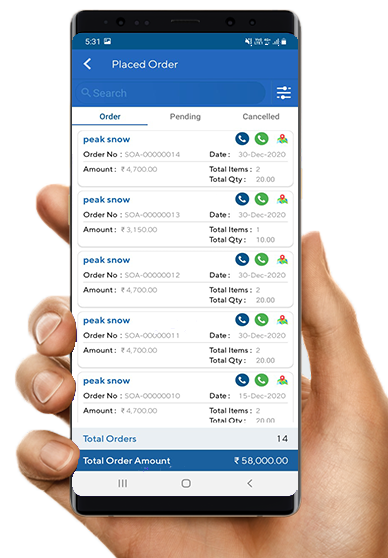
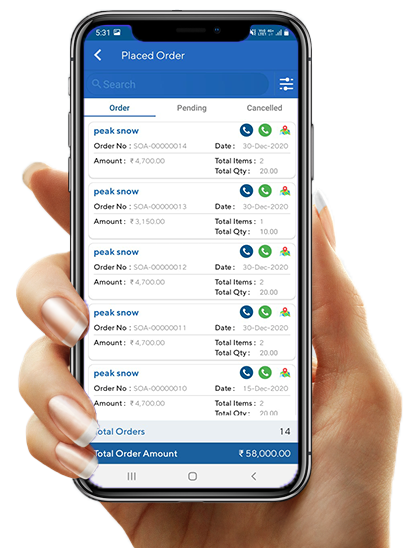
almost there

diff --git a/assets/js/main.js b/assets/js/main.js
@@ -317,11 +317,11 @@
 
   $( window ).resize(function() {
     if ($(window).width() < 700) {
-      $(".features-img").attr("src","assets/images/features-mobile1.png");
+      $(".features-img").attr("src","assets/images/features-mobile.png");
       $(".features-img").addClass("features-img-mobile");
     }
     else {
-      $(".features-img").attr("src","assets/images/features1.png");
+      $(".features-img").attr("src","assets/images/features.png");
       $(".features-img").removeClass("features-img-mobile");
     }
  });

diff --git a/index.html b/index.html
@@ -330,7 +330,7 @@
           <h2>Retail Eazy, Your go to Solution</h2>
         </div>
 
-        <img class="features-img" src="assets/images/features1.png">
+        <img class="features-img" src="assets/images/features.png">
         
         </div>
 

diff --git a/assets/css/style.css b/assets/css/style.css
@@ -963,10 +963,10 @@ section {
   transition: 1s ease;
 }
 .slide2-phone1 {
-  right: 37%;
+  right: 39%;
 }
 .slide2-phone2 {
-  right: 9%;
+  right: 7%;
 }
 .slide2:hover .slide2-phone {
   margin-bottom: 0px;
